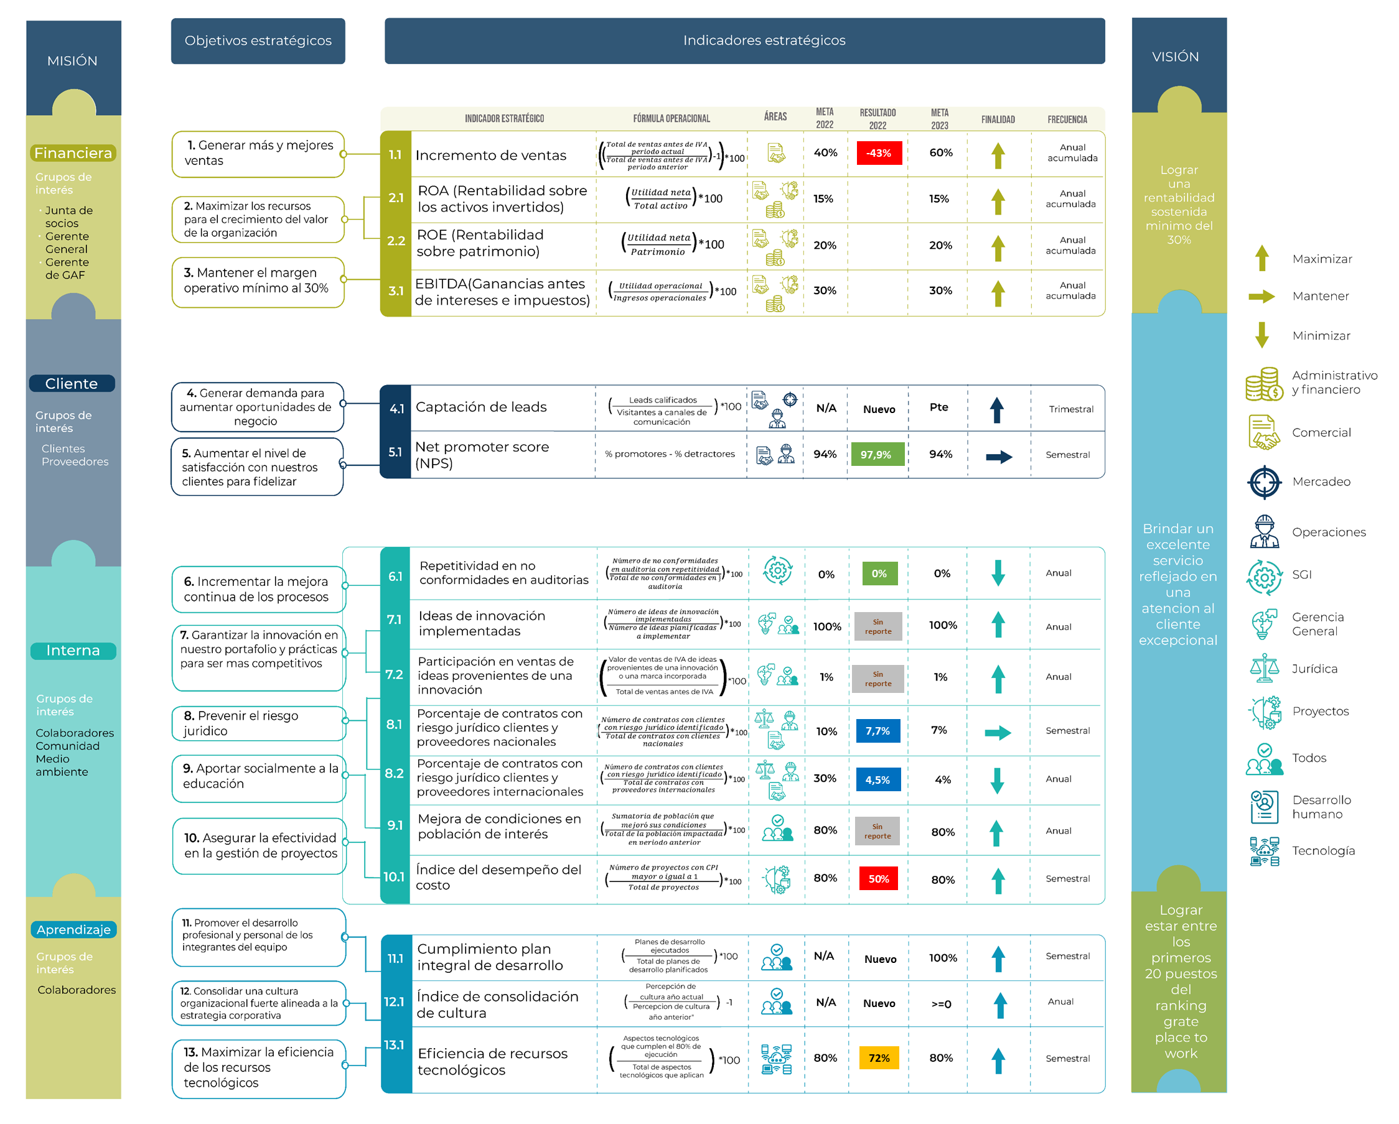
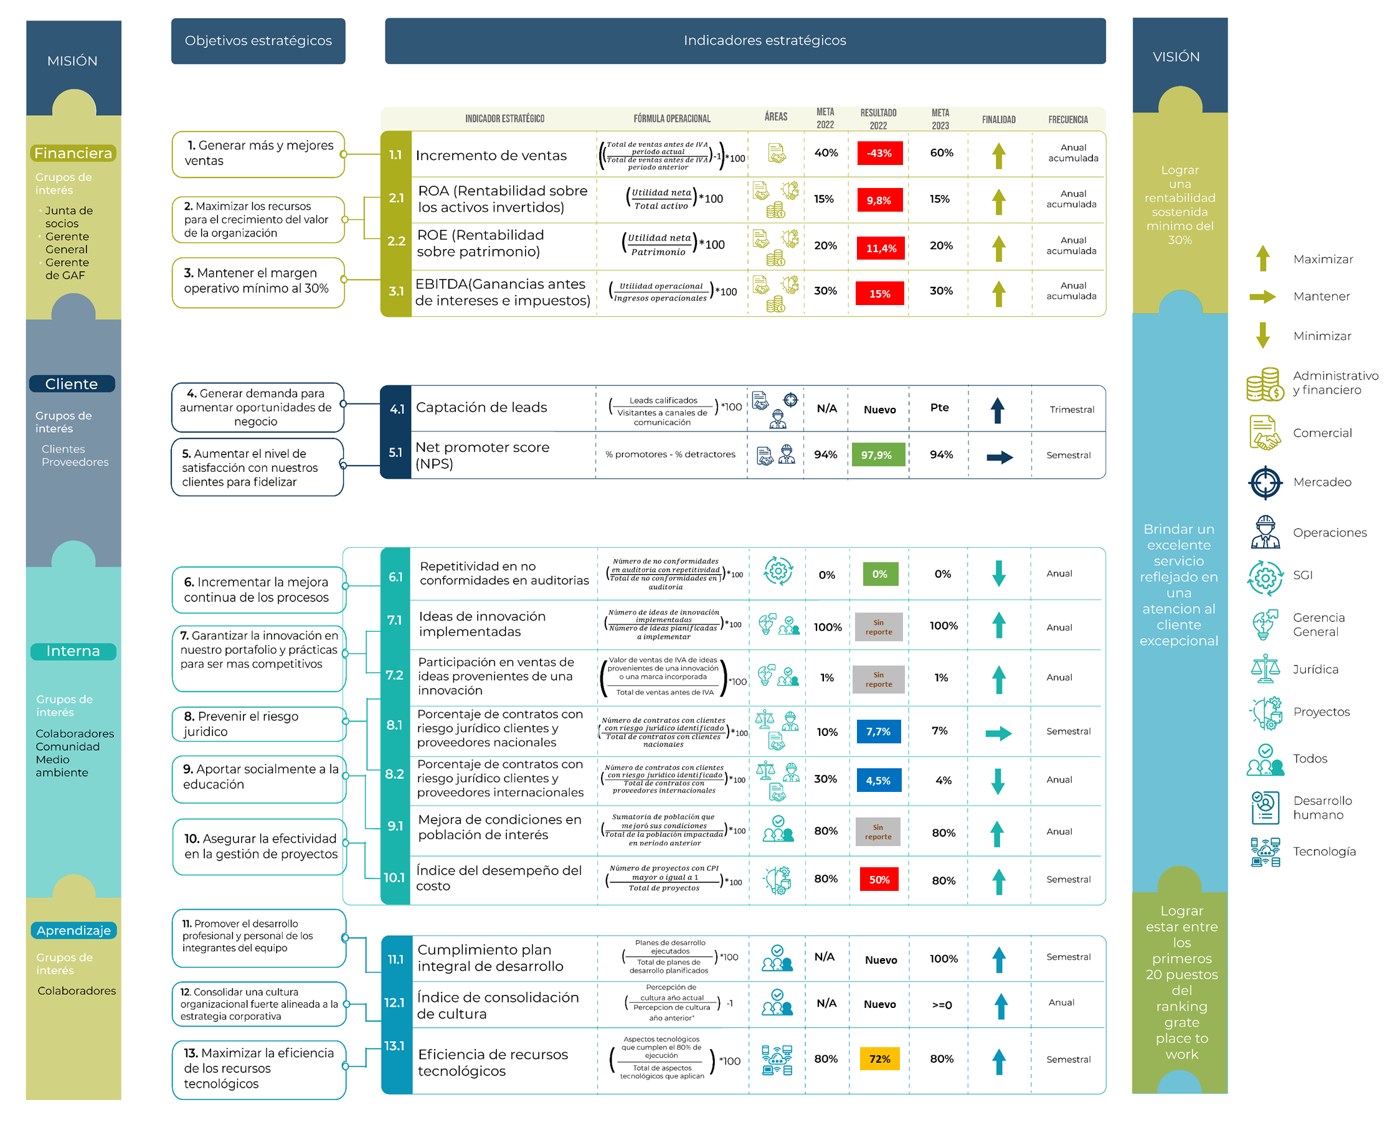
se carga cuadro de mando completo

diff --git a/index.html b/index.html
@@ -480,7 +480,7 @@
                                     <section>
                                         <div class="wrap">
                                             <h2 class="valores">Metas claves para 2023</h2>
-                                         
+                                            <p id="textoCifras">Metas establecidas a partir del 2023 con la nueva estructura</p>
                                             
                                             <ul class="flexblock gallery">
 
@@ -491,7 +491,7 @@
                                                         <figcaption>
                                                             <h2 class="aligncenter">Ventas totales</h2>
                                                             <p class="aligncenter3" >Meta 2023: 16'922.244.026</p>
-                                                            <p class="aligncenter3"> 2022: 5'489.540.263</p>
+                                                          
                                                         </figcaption>
                                                     </figure>
                                            
@@ -504,7 +504,8 @@
                                                             <figcaption>
                                                                 <h2 class="aligncenter">Ventas canal IES</h2>
                                                                 <p class="aligncenter3">Meta 2023: 14'619.230.913</p>
-                                                                <p class="aligncenter3"> 2022: 4'215,586,036</p>
+                                                            
+                                                              
                                                             </figcaption>
                                                         </figure>
                                                
@@ -516,7 +517,8 @@
                                                             <figcaption>
                                                                 <h2 class="aligncenter">Ventas canal Escolar</h2>
                                                                 <p class="aligncenter3">Meta 2023: 1'014.303.477</p>
-                                                                <p class="aligncenter3"> 2022: 549,611,092</p>
+                                                               
+
                                                             </figcaption>
                                                         </figure>
                                                     
@@ -528,7 +530,8 @@
                                                             <figcaption>
                                                                 <h2 class="aligncenter">Ventas canal Instr</h2>
                                                                 <p class="aligncenter3">Meta 2023: 1'288.709.066</p>
-                                                                <p class="aligncenter3"> 2022: 298,849,710</p>
+
+         
                                                             </figcaption>
                                                         </figure>
                                                  
@@ -540,18 +543,7 @@
                                           
                                       
                                             <ul class="flexblock gallery">
-                                                <li>
-                                                   
-                                                        <figure>
-                                                            <img src="/images/FINANCIERA.png" alt="" />
-                                                            <figcaption>
-                                                                <h2 class="aligncenter">Paticipación Ventas en marcas propias </h2>
-                                                                <p class="aligncenter3">Meta 2023: 55%</p>
-                                                                <p class="aligncenter3"> 2022: 47%</p>
-                                                            </figcaption>
-                                                        </figure>
-                                                
-                                                </li>
+
                                                 
                                                 <li>
                                                   
@@ -560,7 +552,8 @@
                                                             <figcaption>
                                                                 <h2 class="aligncenter">EBITDA </h2>
                                                                 <p class="aligncenter3">Meta 2023: 30%</p>
-                                                                <p class="aligncenter3">Resultado 2022: pendiente</p>
+                                                                <p class="aligncenter3">Resultado 2022: 15%</p>
+                                                                <p class="aligncenter3"> Fuente: GAF</p>
                                                             </figcaption>
                                                         </figure>
                                                 
@@ -573,7 +566,8 @@
                                                             <figcaption>
                                                                 <h2 class="aligncenter">ROE </h2>
                                                                 <p class="aligncenter3">Meta 2023: 20%</p>
-                                                                <p class="aligncenter3">Resultado 2022: pendiente</p>
+                                                                <p class="aligncenter3">Resultado 2022: 11,4%</p>
+                                                                <p class="aligncenter3"> Fuente: GAF</p>
                                                             </figcaption>
                                                         </figure>
                                                  
@@ -586,7 +580,8 @@
                                                             <figcaption>
                                                                 <h2 class="aligncenter">ROA </h2>
                                                                 <p class="aligncenter3">Meta 2023: 15%</p>
-                                                                <p class="aligncenter3">Resultado 2022: pendiente</p>
+                                                                <p class="aligncenter3">Resultado 2022: 9,8%</p>
+                                                                <p class="aligncenter3"> Fuente: GAF</p>
                                                             </figcaption>
                                                         </figure>
                                                    
@@ -598,7 +593,8 @@
                                                             <figcaption>
                                                                 <h2 class="aligncenter">Gasto administrativo </h2>
                                                                 <p class="aligncenter3">Meta 2023: 12%</p>
-                                                                <p class="aligncenter3">Resultado 2022: pendiente</p>
+                                                                <p class="aligncenter3">Resultado 2022: 12%</p>
+                                                                <p class="aligncenter3"> Fuente: GAF</p>
                                                             </figcaption>
                                                         </figure>
                                                    
@@ -609,10 +605,10 @@
                                                             <img src="/images/FINANCIERA.png" alt="" />
                                                             <figcaption>
                                                                 <h2 class="aligncenter">
-                                                                    Gasto ventas
+                                                                    Gasto distribución
                                                                 </h2>
                                                                 <p class="aligncenter3">Meta 2023: 18%</p>
-                                                                <p class="aligncenter3">Resultado 2022: pendiente</p>
+                                                                <p class="aligncenter3">Resultado 2022: 23%</p>
                                                             </figcaption>
                                                         </figure>
                                                   

diff --git a/css/style.css b/css/style.css
@@ -154,10 +154,12 @@ span.miElemento, span.miElemento2, span.miElemento3, span.miElemento4, span.miEl
   font-size: 1.4rem;
   font-family: 'Poppins',sans-serif!important;
   border-radius: 3px;
-  /* box-shadow: 0 0 0 0 #fff, 0 0 0 2px #495057; */
+
+  background-color: #ebecec;
   padding: 2%;
   text-align: justify;
-  background-color: #e9e5e5;
+line-height: 1.2;
+  
 
 
 
@@ -230,14 +232,13 @@ text-transform: uppercase;
     column-gap: 1rem;
     row-gap: 0.1rem;
 
-
     
   }
   
   .div1G1 { grid-area: 1 / 1 / 2 / 2; height: fit-content; }
   .div2G1 { grid-area: 1 / 2 / 2 / 3; height: fit-content;}
   .div3G1 { grid-area: 1 / 3 / 2 / 4; height: fit-content;}
-  .div4G1 { grid-area: 1 / 4 / 2 / 5; height: fit-content;}
+  .div4G1 { grid-area: 1 / 4 / 2 / 5; height: fit-content; }
   .div5G1 { grid-area: 2 / 1 / 3 / 2; height: fit-content;}
   .div6G1 { grid-area: 3 / 1 / 4 / 2;height: fit-content; }
   .div7G1 { grid-area: 2 / 2 / 3 / 3; height: fit-content;}
@@ -249,6 +250,8 @@ text-transform: uppercase;
   .div13G1 { grid-area: 2 / 4 / 3 / 5;height: fit-content; }
   
   
+
+
   /*GRID CONTAINER OBJETIVO 2*/
 
 
@@ -257,7 +260,6 @@ text-transform: uppercase;
     grid-template-columns: repeat(4, 1fr);
     grid-template-rows: repeat(6, 1fr);
     column-gap: 1rem;
-    row-gap: auto;
 
 
     }
@@ -278,7 +280,7 @@ text-transform: uppercase;
       grid-template-columns: repeat(4, 1fr);
       grid-template-rows:  repeat(3, 1fr);
       column-gap: 1rem;
-      row-gap: 2rem;
+      row-gap: 1rem;
 
       }
       
@@ -297,6 +299,7 @@ text-transform: uppercase;
         grid-template-rows: repeat(2, 1fr);
         column-gap:1rem;
         row-gap: 0.1rem;
+
         }
         
         .div1G5 { grid-area: 1 / 1 / 2 / 2; height: fit-content; }
@@ -390,7 +393,7 @@ text-transform: uppercase;
   grid-template-columns: repeat(4, 1fr);
   grid-template-rows: repeat(6, 1fr);
   column-gap:1rem;
-  row-gap: 0.1rem;
+
   }
   
   .div1G10 { grid-area: 1 / 2 / 2 / 3; height: fit-content;}
@@ -728,6 +731,14 @@ text-align: center;
   
   }
 
+      /*slide 10*/
+#textoCifras{
+  font-family: 'Poppins',sans-serif!important;
+  color: #333333;
+  font-weight: 700;
+  text-align: center;
+
+}
 
   @media (min-width: 1440px){
 
